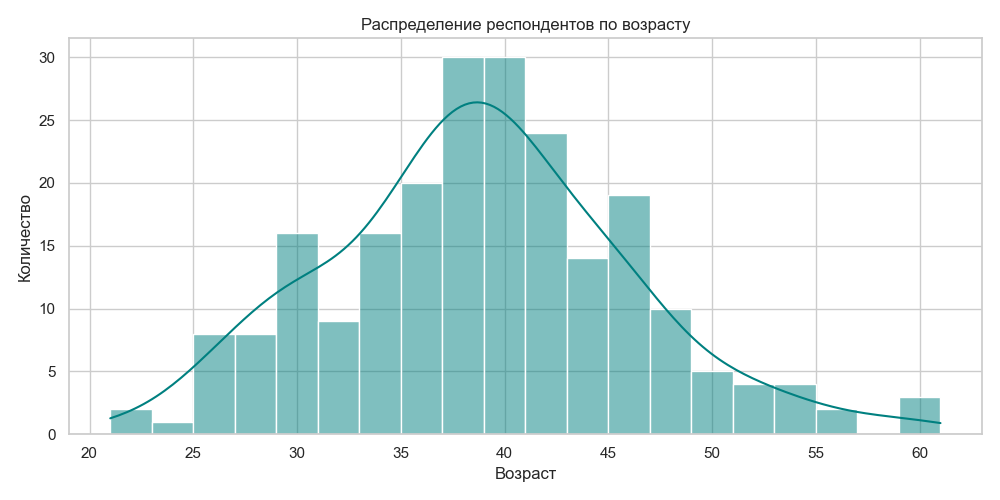
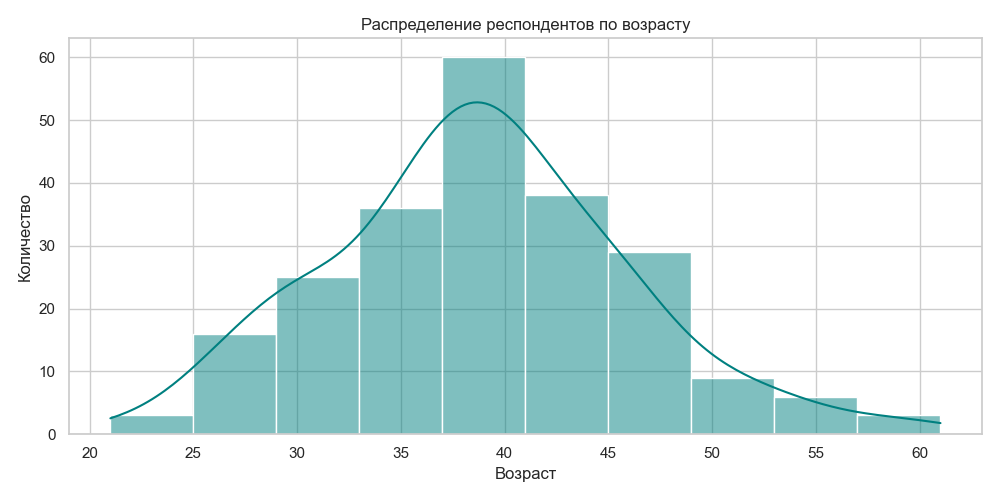
Добавил два раздела в отчет

diff --git a/Survey-01/generate_survey_report.py b/Survey-01/generate_survey_report.py
@@ -8,7 +8,7 @@ import sklearn.utils.validation
 import factor_analyzer.factor_analyzer
 import matplotlib.pyplot as plt
 import seaborn as sns
-from scipy.stats import spearmanr
+from scipy.stats import spearmanr, f_oneway
 
 # --- Настройки ---
 INPUT_FILE = 'Большое исследование джедайских приемов (Responses).csv'
@@ -18,8 +18,8 @@ OUTPUT_FILE = REPORT_DIR + 'survey_report.md'
 IMAGES_DIR = REPORT_DIR + 'images'
 
 # Целевая шкала для корреляционного анализа (можно менять)
-TARGET_SCALE = 'MIJS-2+'
-# TARGET_SCALE = 'MIJS-3+'
+# TARGET_SCALE = 'MIJS-2+'
+TARGET_SCALE = 'MIJS-3+'
 # TARGET_SCALE = 'MIJS-2'
 # TARGET_SCALE = 'MIJS'
 
@@ -212,7 +212,7 @@ def generate_report():
     report_content += hm.get_header(2, "Демографические характеристики") + "\n\n"
     
     plt.figure(figsize=(10, 5))
-    sns.histplot(demo_data['age'].dropna(), bins=20, kde=True, color='teal')
+    sns.histplot(demo_data['age'].dropna(), bins=10, kde=True, color='teal')
     plt.title("Распределение респондентов по возрасту")
     plt.xlabel("Возраст")
     plt.ylabel("Количество")
@@ -285,7 +285,7 @@ def generate_report():
         
         # График распределения баллов по шкале
         plt.figure(figsize=(8, 5))
-        sns.histplot(data_scales[scale_name + '_total'], bins=12, kde=True, color='indigo')
+        sns.histplot(data_scales[scale_name + '_total'], bins=8, kde=True, color='indigo')
         plt.title(f"Распределение баллов по шкале {scale_name}")
         plt.xlabel("Суммарный балл")
         plt.ylabel("Количество")
@@ -374,7 +374,12 @@ def generate_report():
     report_content += "| Шкала | Alpha | Omega | % Variance | KMO | Bartlett χ² | Bartlett p |\n"
     report_content += "| :--- | :---: | :---: | :---: | :---: | :---: | :---: |\n"
     for row in summary_rows:
-        report_content += f"| {row['Scale']} | {row['Alpha']:.3f} | {row['Omega']:.3f} | {row['Variance']:.1f}% | {row['KMO']:.3f} | {row['Bartlett_Chi2']:.2f} | {row['Bartlett_p']:.4f} |\n"
+        if row['Scale'] == TARGET_SCALE:
+            report_content += f"| **{row['Scale']}** | **{row['Alpha']:.3f}** | **{row['Omega']:.3f}** | **{row['Variance']:.1f}%** | **{row['KMO']:.3f}** | **{row['Bartlett_Chi2']:.2f}** | **{row['Bartlett_p']:.4f}** |\n"
+        else:
+            report_content += f"| {row['Scale']} | {row['Alpha']:.3f} | {row['Omega']:.3f} | {row['Variance']:.1f}% | {row['KMO']:.3f} | {row['Bartlett_Chi2']:.2f} | {row['Bartlett_p']:.4f} |\n"
+    report_content += "\n"
+    report_content += f"==Дальнейший анализ основан на шкале  **{TARGET_SCALE}**==."
     report_content += "\n"
 
     # --- Раздел 3: Корреляционный анализ ---
@@ -425,6 +430,77 @@ def generate_report():
     for i, res in enumerate(corr_results, 1):
         report_content += f"| {i} | {res['Label']} | {res['Rho']:.3f} | {res['PVal']:.4f} | {res['Sig']} |\n"
     report_content += "\n*Примечание: * p < 0.05, ** p < 0.01, *** p < 0.001. Отрицательная корреляция означает, что использование приема связано с более низким баллом по шкале MIJS (меньше стресса/завала).* \n\n"
+
+    # --- Раздел 4: Сравнение средних (ANOVA) ---
+    report_content += hm.get_header(1, "Сравнение средних (ANOVA)") + "\n\n"
+    report_content += "В данном разделе анализируется, как частота использования или уровень внедрения приема связаны со средним значением продуктивности. "
+    report_content += "Для проверки значимости различий между группами используется однофакторный дисперсионный анализ (One-way ANOVA).\n\n"
+
+    # --- 4.1. Частота использования приемов ---
+    report_content += hm.get_header(2, "Частота использования приемов") + "\n\n"
+    report_content += "Респонденты разделены на группы по частоте использования (0 — никогда, 4 — всегда).\n\n"
+
+    anova_results_prac = []
+    for feat in prac_cols:
+        groups = []
+        means = {}
+        for level in range(5):
+            group_data = data_scales[data_scales[feat] == level][TARGET_SCALE + '_total'].dropna()
+            if len(group_data) > 3:
+                groups.append(group_data)
+                means[level] = group_data.mean()
+            else:
+                means[level] = np.nan
+        
+        if len(groups) >= 2:
+            f_stat, pval = f_oneway(*groups)
+            sig = "****" if pval < 0.0001 else "***" if pval < 0.001 else "**" if pval < 0.01 else "*" if pval < 0.05 else ""
+            anova_results_prac.append({
+                'Label': FEATURE_LABELS.get(feat, feat),
+                'Means': [means.get(l, np.nan) for l in range(5)],
+                'F': f_stat, 'PVal': pval, 'Sig': sig
+            })
+
+    anova_results_prac.sort(key=lambda x: x['PVal'])
+    report_content += "| № | Прием | Ср. (0) | Ср. (1) | Ср. (2) | Ср. (3) | Ср. (4) | F | p-value | Знач. |\n"
+    report_content += "| :--- | :--- | :---: | :---: | :---: | :---: | :---: | :---: | :---: | :---: |\n"
+    for i, res in enumerate(anova_results_prac, 1):
+        m_str = " | ".join([f"{m:.1f}" if not np.isnan(m) else "-" for m in res['Means']])
+        report_content += f"| {i} | {res['Label']} | {m_str} | {res['F']:.2f} | {res['PVal']:.4f} | {res['Sig']} |\n"
+    report_content += f"\n*Примечание: 0 — никогда/редко, 4 — всегда. В ячейках указан средний балл по шкале {TARGET_SCALE}. Чем ниже балл, тем выше продуктивность.* \n\n"
+
+    # --- 4.2. Уровень внедрения приемов ---
+    report_content += hm.get_header(2, "Уровень внедрения приемов") + "\n\n"
+    report_content += "Респонденты разделены на группы по уровню внедрения (0 — не применил(а), 3 — применил(а) по максимуму).\n\n"
+
+    anova_results_setup = []
+    for feat in setup_cols:
+        groups = []
+        means = {}
+        for level in range(4): # 0, 1, 2, 3
+            group_data = data_scales[data_scales[feat] == level][TARGET_SCALE + '_total'].dropna()
+            if len(group_data) > 3:
+                groups.append(group_data)
+                means[level] = group_data.mean()
+            else:
+                means[level] = np.nan
+        
+        if len(groups) >= 2:
+            f_stat, pval = f_oneway(*groups)
+            sig = "***" if pval < 0.001 else "**" if pval < 0.01 else "*" if pval < 0.05 else ""
+            anova_results_setup.append({
+                'Label': FEATURE_LABELS.get(feat, feat),
+                'Means': [means.get(l, np.nan) for l in range(4)],
+                'F': f_stat, 'PVal': pval, 'Sig': sig
+            })
+
+    anova_results_setup.sort(key=lambda x: x['PVal'])
+    report_content += "| № | Прием | Ср. (0) | Ср. (1) | Ср. (2) | Ср. (3) | F | p-value | Знач. |\n"
+    report_content += "| :--- | :--- | :---: | :---: | :---: | :---: | :---: | :---: | :---: |\n"
+    for i, res in enumerate(anova_results_setup, 1):
+        m_str = " | ".join([f"{m:.1f}" if not np.isnan(m) else "-" for m in res['Means']])
+        report_content += f"| {i} | {res['Label']} | {m_str} | {res['F']:.2f} | {res['PVal']:.4f} | {res['Sig']} |\n"
+    report_content += f"\n*Примечание: 0 — не применил(а), 3 — по максимуму. В ячейках указан средний балл по шкале {TARGET_SCALE}.*\n\n"
 
     with open(OUTPUT_FILE, 'w', encoding='utf-8') as f:
         f.write(report_content)

diff --git a/Survey-01/survey_report.md b/Survey-01/survey_report.md
@@ -259,58 +259,123 @@
 | MIJS | 0.842 | 0.848 | 49.0% | 0.857 | 522.89 | 0.0000 |
 | MIJS-2 | 0.842 | 0.843 | 57.4% | 0.813 | 351.47 | 0.0000 |
 | MIJS-2+ | 0.861 | 0.862 | 55.8% | 0.862 | 478.16 | 0.0000 |
-| MIJS-3+ | 0.850 | 0.852 | 59.0% | 0.820 | 371.10 | 0.0000 |
+| **MIJS-3+** | **0.850** | **0.852** | **59.0%** | **0.820** | **371.10** | **0.0000** |
 
+==Дальнейший анализ основан на шкале  **MIJS-3+**==.
 # 3. Корреляционный анализ (ранговая корреляция)
 
-В данном разделе представлена связь различных практик с целевой шкалой **MIJS-2+**. Для анализа используется коэффициент ранговой корреляции Спирмена (ρ).
+В данном разделе представлена связь различных практик с целевой шкалой **MIJS-3+**. Для анализа используется коэффициент ранговой корреляции Спирмена (ρ).
 
 | № | Прием | ρ (Rho) | p-value | Знач. |
 | :--- | :--- | :---: | :---: | :---: |
-| 1 | Отделять задачи от проектов и идей | -0.350 | 0.0000 | **** |
-| 2 | Разгрузить свою память | -0.340 | 0.0000 | **** |
-| 3 | Выполнить "зеленую" задачу | -0.340 | 0.0000 | **** |
-| 4 | Я составляю план на неделю | -0.334 | 0.0000 | **** |
-| 5 | Я подвожу итоги недели | -0.321 | 0.0000 | **** |
-| 6 | Увидеть дно инбокса | -0.318 | 0.0000 | **** |
-| 7 | Я подвожу итоги дня | -0.316 | 0.0000 | **** |
-| 8 | Я составляю план на день | -0.307 | 0.0000 | **** |
-| 9 | Провести 15 минут наедине со своими мыслями | -0.291 | 0.0000 | **** |
-| 10 | Формулировать задачи "как для обезьянки" | -0.273 | 0.0000 | **** |
-| 11 | Я смотрю / корректирую свой план на неделю | -0.271 | 0.0000 | **** |
-| 12 | Соотнести список своих задач со списком своих целей / хотелок | -0.254 | 0.0001 | *** |
-| 13 | Порадовать свою обезьянку | -0.250 | 0.0002 | *** |
-| 14 | Выполнить "зеленую" задачу ДО проверки чатов / почты / новостей и прочего интернета | -0.241 | 0.0003 | *** |
-| 15 | Делать задачи ТОЛЬКО записанные в список (записываем, перед тем, как сделать) | -0.235 | 0.0004 | *** |
-| 16 | Поковырять задачи в "Позже" | -0.219 | 0.0010 | *** |
-| 17 | Две минуты ничего не делать | -0.215 | 0.0012 | ** |
-| 18 | Провести N-минут в инкубаторе идей | -0.214 | 0.0012 | ** |
+| 1 | Отделять задачи от проектов и идей | -0.351 | 0.0000 | **** |
+| 2 | Выполнить "зеленую" задачу | -0.350 | 0.0000 | **** |
+| 3 | Я составляю план на неделю | -0.346 | 0.0000 | **** |
+| 4 | Я подвожу итоги недели | -0.341 | 0.0000 | **** |
+| 5 | Разгрузить свою память | -0.325 | 0.0000 | **** |
+| 6 | Увидеть дно инбокса | -0.313 | 0.0000 | **** |
+| 7 | Я подвожу итоги дня | -0.310 | 0.0000 | **** |
+| 8 | Я смотрю / корректирую свой план на неделю | -0.297 | 0.0000 | **** |
+| 9 | Я составляю план на день | -0.296 | 0.0000 | **** |
+| 10 | Провести 15 минут наедине со своими мыслями | -0.292 | 0.0000 | **** |
+| 11 | Формулировать задачи "как для обезьянки" | -0.270 | 0.0000 | **** |
+| 12 | Соотнести список своих задач со списком своих целей / хотелок | -0.262 | 0.0001 | **** |
+| 13 | Делать задачи ТОЛЬКО записанные в список (записываем, перед тем, как сделать) | -0.255 | 0.0001 | *** |
+| 14 | Поковырять задачи в "Позже" | -0.244 | 0.0002 | *** |
+| 15 | Порадовать свою обезьянку | -0.239 | 0.0003 | *** |
+| 16 | Провести N-минут в инкубаторе идей | -0.235 | 0.0004 | *** |
+| 17 | Выполнить "зеленую" задачу ДО проверки чатов / почты / новостей и прочего интернета | -0.234 | 0.0004 | *** |
+| 18 | Две минуты ничего не делать | -0.224 | 0.0007 | *** |
 | 19 | Посмотреть в свой список задач просто с целью выкинуть оттуда что-то ненужное | -0.204 | 0.0021 | ** |
-| 20 | Выполнить хотя бы одну задачу из списка до проверки почты / чатов / новостей | -0.362 | 0.0135 | * |
-| 21 | Интернет-шаббат: провести день, не прикасаясь к устройствам, способным соединяться с интернетом | -0.156 | 0.0191 | * |
-| 22 | Выполнить задачу из списка до контакта с внешним миром | -0.136 | 0.0414 | * |
-| 23 | Настроить автоматическое отмечание входящих писем в электронной почте прочитанными | -0.134 | 0.0454 | * |
-| 24 | Сходить на тренировку и позаниматься спортом | -0.132 | 0.0472 | * |
-| 25 | Закрыть ненужные вкладки в браузере | -0.129 | 0.0531 |  |
-| 26 | На сколько удачливым человеком вы себя считаете? | -0.120 | 0.0729 |  |
-| 27 | В среднем, сколько дней в неделю вы работаете в офисе, а сколько удаленно? | -0.131 | 0.0839 |  |
-| 28 | Отключить push-оповещения от приложений в смартфоне (соцсети, магазины, заправки) | -0.115 | 0.0841 |  |
-| 29 | Отключать средства коммуникации на время сосредоточенной работы (блоки тишины) | -0.114 | 0.0868 |  |
-| 30 | Отключить красные кружочки на иконках приложений в смартфоне | -0.104 | 0.1195 |  |
-| 31 | Установить автоматический (по расписанию) режим "не беспокоить" на смартфоне (минимум на 8 часов в день) | -0.082 | 0.2199 |  |
-| 32 | Провести утро без смартфона | -0.079 | 0.2379 |  |
-| 33 | Отключить оповещения о новых сообщениях в чатах | -0.061 | 0.3609 |  |
-| 34 | Во время работы прятать смартфон от самого себя (не держать его на виду) | -0.055 | 0.4136 |  |
-| 35 | Установить плагины и настройки против рекламных баннеров | -0.050 | 0.4562 |  |
-| 36 | Пользоваться смартфоном в туалете | 0.049 | 0.4647 |  |
-| 37 | Отключить оповещения на смарт-часах | -0.035 | 0.5994 |  |
-| 38 | Лежа в постели не пользоваться устройствами с экранами | 0.033 | 0.6186 |  |
-| 39 | Провести день стесняясь смартфона | 0.029 | 0.6700 |  |
-| 40 | Провести ревизию спального места на предмет светового шума | -0.027 | 0.6831 |  |
-| 41 | Установить фильтр синего (ночной режим или режим чтения) на экранах | -0.022 | 0.7400 |  |
-| 42 | Вести лог дня (дневник) | 0.018 | 0.7874 |  |
-| 43 | Отключить оповещения о новых сообщениях в электронной почте | -0.013 | 0.8413 |  |
-| 44 | Удалить приложения социальных сетей со своего смартфона | 0.009 | 0.8879 |  |
+| 20 | Выполнить хотя бы одну задачу из списка до проверки почты / чатов / новостей | -0.386 | 0.0081 | ** |
+| 21 | Интернет-шаббат: провести день, не прикасаясь к устройствам, способным соединяться с интернетом | -0.165 | 0.0130 | * |
+| 22 | Закрыть ненужные вкладки в браузере | -0.145 | 0.0291 | * |
+| 23 | Выполнить задачу из списка до контакта с внешним миром | -0.136 | 0.0413 | * |
+| 24 | Отключать средства коммуникации на время сосредоточенной работы (блоки тишины) | -0.134 | 0.0444 | * |
+| 25 | Настроить автоматическое отмечание входящих писем в электронной почте прочитанными | -0.133 | 0.0463 | * |
+| 26 | Сходить на тренировку и позаниматься спортом | -0.132 | 0.0476 | * |
+| 27 | На сколько удачливым человеком вы себя считаете? | -0.121 | 0.0709 |  |
+| 28 | Отключить push-оповещения от приложений в смартфоне (соцсети, магазины, заправки) | -0.110 | 0.1009 |  |
+| 29 | В среднем, сколько дней в неделю вы работаете в офисе, а сколько удаленно? | -0.117 | 0.1242 |  |
+| 30 | Отключить красные кружочки на иконках приложений в смартфоне | -0.102 | 0.1261 |  |
+| 31 | Провести утро без смартфона | -0.084 | 0.2090 |  |
+| 32 | Во время работы прятать смартфон от самого себя (не держать его на виду) | -0.080 | 0.2313 |  |
+| 33 | Установить автоматический (по расписанию) режим "не беспокоить" на смартфоне (минимум на 8 часов в день) | -0.080 | 0.2333 |  |
+| 34 | Отключить оповещения о новых сообщениях в чатах | -0.065 | 0.3338 |  |
+| 35 | Пользоваться смартфоном в туалете | 0.056 | 0.4038 |  |
+| 36 | Установить плагины и настройки против рекламных баннеров | -0.054 | 0.4196 |  |
+| 37 | Провести ревизию спального места на предмет светового шума | -0.042 | 0.5296 |  |
+| 38 | Отключить оповещения о новых сообщениях в электронной почте | -0.026 | 0.7033 |  |
+| 39 | Установить фильтр синего (ночной режим или режим чтения) на экранах | -0.025 | 0.7063 |  |
+| 40 | Удалить приложения социальных сетей со своего смартфона | 0.024 | 0.7211 |  |
+| 41 | Лежа в постели не пользоваться устройствами с экранами | 0.016 | 0.8145 |  |
+| 42 | Отключить оповещения на смарт-часах | -0.014 | 0.8402 |  |
+| 43 | Провести день стесняясь смартфона | 0.009 | 0.8987 |  |
+| 44 | Вести лог дня (дневник) | -0.001 | 0.9934 |  |
 
 *Примечание: * p < 0.05, ** p < 0.01, *** p < 0.001. Отрицательная корреляция означает, что использование приема связано с более низким баллом по шкале MIJS (меньше стресса/завала).* 
+
+# 4. Сравнение средних (ANOVA)
+
+В данном разделе анализируется, как частота использования или уровень внедрения приема связаны со средним значением продуктивности. Для проверки значимости различий между группами используется однофакторный дисперсионный анализ (One-way ANOVA).
+
+## 4.1. Частота использования приемов
+
+Респонденты разделены на группы по частоте использования (0 — никогда, 4 — всегда).
+
+| № | Прием | Ср. (0) | Ср. (1) | Ср. (2) | Ср. (3) | Ср. (4) | F | p-value | Знач. |
+| :--- | :--- | :---: | :---: | :---: | :---: | :---: | :---: | :---: | :---: |
+| 1 | Выполнить "зеленую" задачу | 13.2 | 12.6 | 11.5 | 9.7 | 8.7 | 9.03 | 0.0000 | **** |
+| 2 | Отделять задачи от проектов и идей | 13.4 | 12.9 | 11.5 | 10.5 | 9.7 | 8.59 | 0.0000 | **** |
+| 3 | Я подвожу итоги недели | 13.1 | 11.4 | 11.7 | 10.0 | 9.0 | 8.29 | 0.0000 | **** |
+| 4 | Я составляю план на неделю | 13.2 | 13.2 | 11.8 | 10.5 | 9.9 | 8.08 | 0.0000 | **** |
+| 5 | Разгрузить свою память | 13.3 | 13.2 | 12.0 | 12.0 | 9.6 | 7.51 | 0.0000 | **** |
+| 6 | Я смотрю / корректирую свой план на неделю | 12.9 | 12.8 | 11.2 | 11.7 | 8.6 | 7.30 | 0.0000 | **** |
+| 7 | Увидеть дно инбокса | 13.3 | 13.0 | 11.5 | 10.7 | 10.3 | 6.47 | 0.0001 | **** |
+| 8 | Я подвожу итоги дня | 13.1 | 12.1 | 11.6 | 10.1 | 9.5 | 6.23 | 0.0001 | **** |
+| 9 | Выполнить "зеленую" задачу ДО проверки чатов / почты / новостей и прочего интернета | 12.4 | 12.3 | 9.2 | 8.6 | 11.0 | 6.16 | 0.0001 | *** |
+| 10 | Я составляю план на день | 13.7 | 12.9 | 12.2 | 11.3 | 10.1 | 5.55 | 0.0003 | *** |
+| 11 | Провести 15 минут наедине со своими мыслями | 13.2 | 12.8 | 11.3 | 10.6 | 10.2 | 5.35 | 0.0004 | *** |
+| 12 | Формулировать задачи "как для обезьянки" | 13.0 | 13.3 | 11.8 | 11.6 | 10.1 | 5.23 | 0.0005 | *** |
+| 13 | Соотнести список своих задач со списком своих целей / хотелок | 12.6 | 12.0 | 9.9 | 9.6 | 10.2 | 4.76 | 0.0011 | ** |
+| 14 | Делать задачи ТОЛЬКО записанные в список (записываем, перед тем, как сделать) | 13.3 | 12.0 | 12.0 | 10.9 | 10.1 | 4.29 | 0.0023 | ** |
+| 15 | Провести N-минут в инкубаторе идей | 12.6 | 11.0 | 10.2 | 10.5 | - | 4.61 | 0.0038 | ** |
+| 16 | Выполнить хотя бы одну задачу из списка до проверки почты / чатов / новостей | 14.5 | 11.9 | 13.9 | 7.4 | - | 5.14 | 0.0043 | ** |
+| 17 | Поковырять задачи в "Позже" | 13.1 | 11.7 | 10.8 | 10.1 | 10.6 | 3.58 | 0.0075 | ** |
+| 18 | Порадовать свою обезьянку | 12.7 | 12.6 | 11.9 | 10.7 | 9.7 | 3.58 | 0.0075 | ** |
+| 19 | Выполнить задачу из списка до контакта с внешним миром | 12.0 | 12.7 | 11.5 | 9.4 | 10.4 | 3.56 | 0.0078 | ** |
+| 20 | Посмотреть в свой список задач просто с целью выкинуть оттуда что-то ненужное | 13.1 | 11.9 | 11.2 | 10.1 | 12.1 | 3.38 | 0.0105 | * |
+| 21 | Две минуты ничего не делать | 12.7 | 12.6 | 11.2 | 11.0 | 10.5 | 3.12 | 0.0159 | * |
+| 22 | Провести утро без смартфона | 12.1 | 12.3 | 10.2 | 12.6 | 11.1 | 2.12 | 0.0790 |  |
+| 23 | Отключать средства коммуникации на время сосредоточенной работы (блоки тишины) | 12.1 | 12.5 | 12.2 | 10.9 | 10.2 | 2.10 | 0.0817 |  |
+| 24 | Сходить на тренировку и позаниматься спортом | 13.1 | 11.4 | 11.9 | 11.7 | 10.3 | 1.97 | 0.0995 |  |
+| 25 | Интернет-шаббат: провести день, не прикасаясь к устройствам, способным соединяться с интернетом | 12.1 | 11.1 | 9.6 | - | - | 2.01 | 0.1367 |  |
+| 26 | Лежа в постели не пользоваться устройствами с экранами | 11.6 | 12.0 | 10.9 | 13.2 | 11.2 | 1.75 | 0.1398 |  |
+| 27 | Закрыть ненужные вкладки в браузере | 12.9 | 11.6 | 12.4 | 11.6 | 11.1 | 1.57 | 0.1835 |  |
+| 28 | Пользоваться смартфоном в туалете | 12.0 | 11.7 | 10.4 | 11.0 | 12.3 | 1.52 | 0.1974 |  |
+| 29 | Во время работы прятать смартфон от самого себя (не держать его на виду) | 12.0 | 12.5 | 11.5 | 10.9 | 11.2 | 0.87 | 0.4832 |  |
+| 30 | Провести день стесняясь смартфона | 11.7 | 12.9 | 10.7 | 10.9 | 11.5 | 0.73 | 0.5702 |  |
+| 31 | Вести лог дня (дневник) | 11.7 | 11.8 | 12.2 | 12.8 | 10.9 | 0.68 | 0.6095 |  |
+
+*Примечание: 0 — никогда/редко, 4 — всегда. В ячейках указан средний балл по шкале MIJS-3+. Чем ниже балл, тем выше продуктивность.* 
+
+## 4.2. Уровень внедрения приемов
+
+Респонденты разделены на группы по уровню внедрения (0 — не применил(а), 3 — применил(а) по максимуму).
+
+| № | Прием | Ср. (0) | Ср. (1) | Ср. (2) | Ср. (3) | F | p-value | Знач. |
+| :--- | :--- | :---: | :---: | :---: | :---: | :---: | :---: | :---: |
+| 1 | Удалить приложения социальных сетей со своего смартфона | 11.2 | 13.0 | 12.1 | 10.5 | 4.11 | 0.0073 | ** |
+| 2 | Отключить push-оповещения от приложений в смартфоне (соцсети, магазины, заправки) | 10.4 | 12.0 | 12.7 | 10.8 | 3.68 | 0.0129 | * |
+| 3 | Настроить автоматическое отмечание входящих писем в электронной почте прочитанными | 12.1 | 11.5 | 12.6 | 10.2 | 2.47 | 0.0629 |  |
+| 4 | Отключить красные кружочки на иконках приложений в смартфоне | 11.9 | 13.0 | 11.7 | 11.0 | 1.96 | 0.1214 |  |
+| 5 | Отключить оповещения о новых сообщениях в чатах | 9.7 | 12.5 | 11.5 | 11.5 | 1.92 | 0.1267 |  |
+| 6 | Провести ревизию спального места на предмет светового шума | 11.0 | 12.1 | 12.2 | 11.3 | 1.10 | 0.3490 |  |
+| 7 | Отключить оповещения о новых сообщениях в электронной почте | 11.2 | 12.3 | 12.5 | 11.6 | 0.90 | 0.4445 |  |
+| 8 | Установить плагины и настройки против рекламных баннеров | 11.8 | 12.0 | 12.4 | 11.2 | 0.76 | 0.5174 |  |
+| 9 | Установить автоматический (по расписанию) режим "не беспокоить" на смартфоне (минимум на 8 часов в день) | 12.0 | 12.3 | 12.1 | 11.4 | 0.64 | 0.5901 |  |
+| 10 | Установить фильтр синего (ночной режим или режим чтения) на экранах | 11.5 | 12.4 | 11.9 | 11.5 | 0.58 | 0.6268 |  |
+| 11 | Отключить оповещения на смарт-часах | 11.7 | 11.6 | 12.4 | 11.6 | 0.39 | 0.7600 |  |
+
+*Примечание: 0 — не применил(а), 3 — по максимуму. В ячейках указан средний балл по шкале MIJS-3+.*
 
